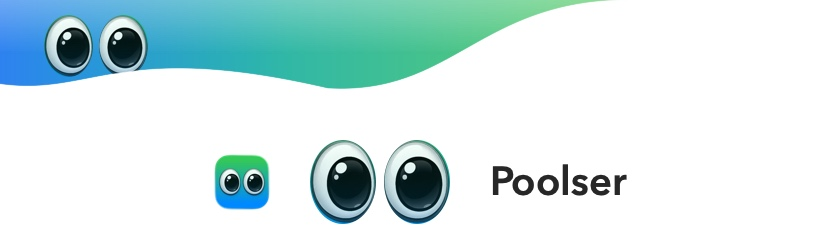
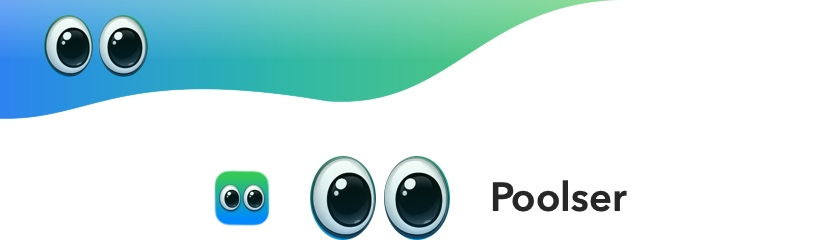
refactor: extend crest colour below the character

diff --git a/Sources/PoolserKit/Presentation/PoolBrand.swift b/Sources/PoolserKit/Presentation/PoolBrand.swift
@@ -26,7 +26,7 @@ public struct PoolBrandRibbon: View {
     public var body: some View {
         let palette = GraphitePalette.current(scheme)
         let surface = compact ? palette.popover : palette.card
-        let height: CGFloat = compact ? 36 : 54
+        let height: CGFloat = compact ? 40 : 62
         let eyesWidth: CGFloat = compact ? 34 : 52
         GeometryReader { geometry in
             ZStack(alignment: .topLeading) {
@@ -44,7 +44,7 @@ public struct PoolBrandRibbon: View {
                     .fill(LinearGradient(colors: [.white.opacity(0.3), .clear, .clear],
                                          startPoint: .top, endPoint: .bottom))
                 PoolEyes(width: eyesWidth)
-                    .padding(.top, height * 0.14)
+                    .padding(.top, compact ? 5 : 7.5)
                     .padding(.leading, compact ? 16 : 22)
                     .opacity(appeared || !animated ? 1 : 0)
                     .animation(reduceMotion ? nil : .easeOut(duration: 0.2).delay(0.22), value: appeared)
@@ -96,9 +96,9 @@ private struct CrestEdge: Shape {
         p.addCurve(to: CGPoint(x: r.width * 0.61, y: r.height * 0.82),
                    control1: CGPoint(x: r.width * 0.43, y: 0),
                    control2: CGPoint(x: r.width * 0.46, y: r.height * 0.89))
-        p.addCurve(to: CGPoint(x: r.width, y: r.height * 0.78),
-                   control1: CGPoint(x: r.width * 0.86, y: r.height * 0.37),
-                   control2: CGPoint(x: r.width * 0.89, y: r.height * 0.90))
+        p.addCurve(to: CGPoint(x: r.width, y: r.height * 0.96),
+                   control1: CGPoint(x: r.width * 0.86, y: r.height * 0.53),
+                   control2: CGPoint(x: r.width * 0.89, y: r.height * 0.98))
         return p
     }
 }

diff --git a/Sources/PoolserKit/Widget/PortfolioWidgetViews.swift b/Sources/PoolserKit/Widget/PortfolioWidgetViews.swift
@@ -76,7 +76,7 @@ private struct Summary: View {
         VStack(alignment: .leading, spacing: 0) {
             Header(walletName: snapshot.walletName, palette: palette)
                 .padding(.leading, 52)
-                .padding(.top, 8)
+                .padding(.top, 18)
             Spacer(minLength: 5)
             Text("Unclaimed fees")
                 .font(.caption2).foregroundStyle(palette.secondaryText)

diff --git a/docs/BRAND.md b/docs/BRAND.md
@@ -62,6 +62,6 @@ Reference captures from the actual shared views (demo data): [macOS light](scree
 
 Use the original icon artwork for the character. `Sources/PoolserKit/Resources/PoolserCharacter.png` is an unmodified copy of the 1024-pixel app icon, shared by macOS, iOS and widgets through the package resource bundle. `PoolCharacterArtwork` loads the PNG explicitly from its bundle URL on each platform. `PoolEyes` samples the eye region and masks each eyeball at display time, preserving the original glossy pupils, pale rims and reflected highlights. Do not redraw the eyes with ellipses and dots or substitute emoji. Place the character at the upper left, preserving its original gaze down and to the right toward the financial data. Mirror the wave geometry, never the eye artwork. Use the original eyes without mirroring them. Keep nearly the whole eyeball visible; only the lowest edge may sit behind the white card. The coloured wave must continue directly behind the eyes, meeting a single white foreground edge. Background and foreground share the same curve, with no white gap, doubled ridge or inset pocket around the eyes. `PoolBrandMark` uses the same original icon.
 
-Use a satin crest with a soft rim and restrained depth. Avoid multiple shiny glass folds: the selected direction is Soft Crest. Widgets use a shorter crest and smaller character to keep titles and data readable. Their title sits to the right of the character, with space reserved for the eyes rather than a duplicate eye mark. The existing fee-pool filling animation remains separate and unchanged.
+Use a satin crest with a soft rim and restrained depth. Leave a small blue-green cushion below the eyes by lowering the shared curve locally under the character; keep the eye position fixed. The crest is 62 points tall in the app and 40 in widgets, with the eyes held near the top so added depth goes below them. Avoid multiple shiny glass folds: the selected direction is Soft Crest. Widgets use a shorter crest and smaller character to keep titles and data readable. Their title sits to the right of the character, below the coloured edge, with space reserved for the eyes rather than a duplicate eye mark. The existing fee-pool filling animation remains separate and unchanged.
 
 For a focused reference export, set `POOLSER_SCREENSHOT_FILTER=redesign` with `POOLSER_SCREENSHOTS`. This captures the crest, original character, summary and widgets without waiting for external token icons. Use `popover` to capture only the Mac panels, or omit the filter for the complete screenshot set.
